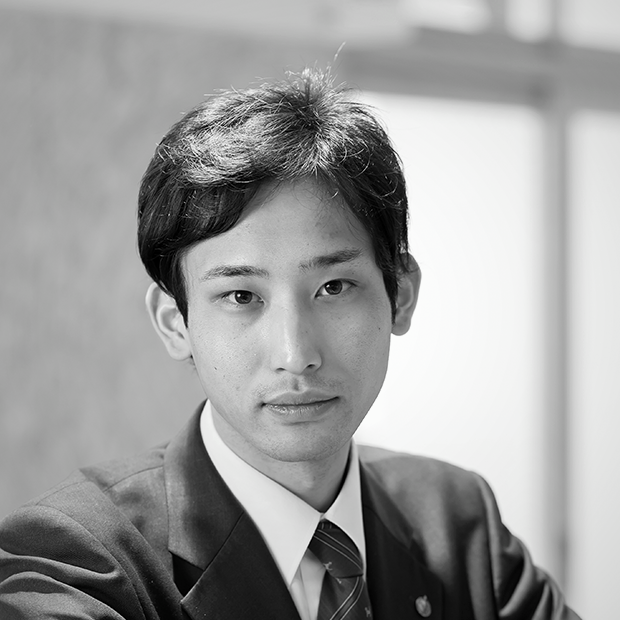
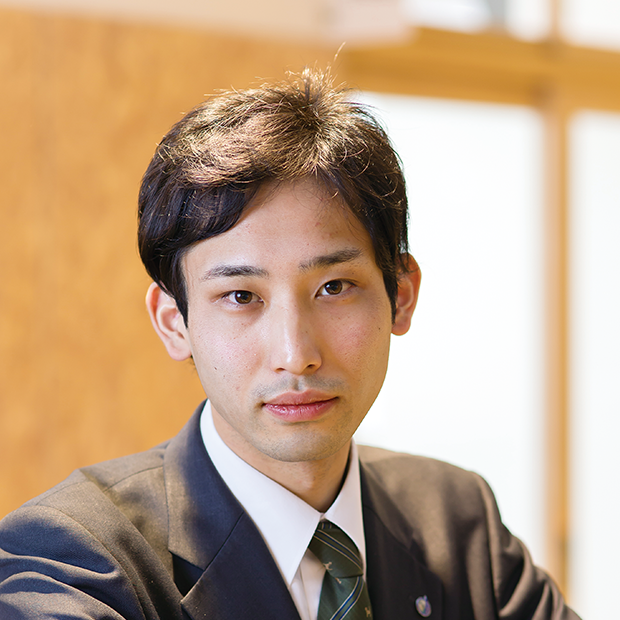
photo

diff --git a/index.html b/index.html
@@ -45,7 +45,7 @@
                 <h1><span>Masayuki Tezuka</span><span>（手塚 真徹）</span></h1>
                 <p>
                 <div>
-                <img src="images/man.png" align="left" hight="180" width="180" hspace="20" alt="photo">
+                <img src="images/man.JPG" align="left" hight="180" width="180" hspace="20" alt="photo">
                 <table>
                 <tr>
                     <td>所属: </td>
